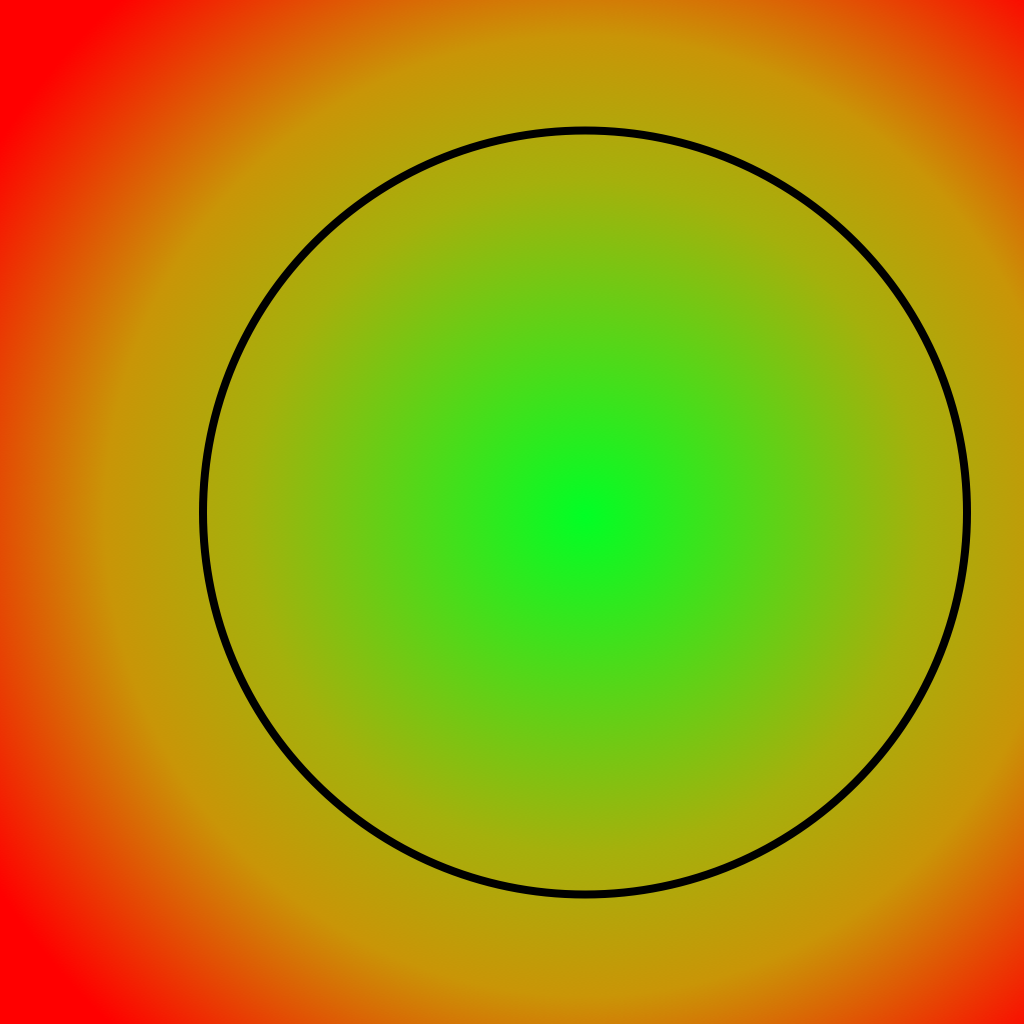
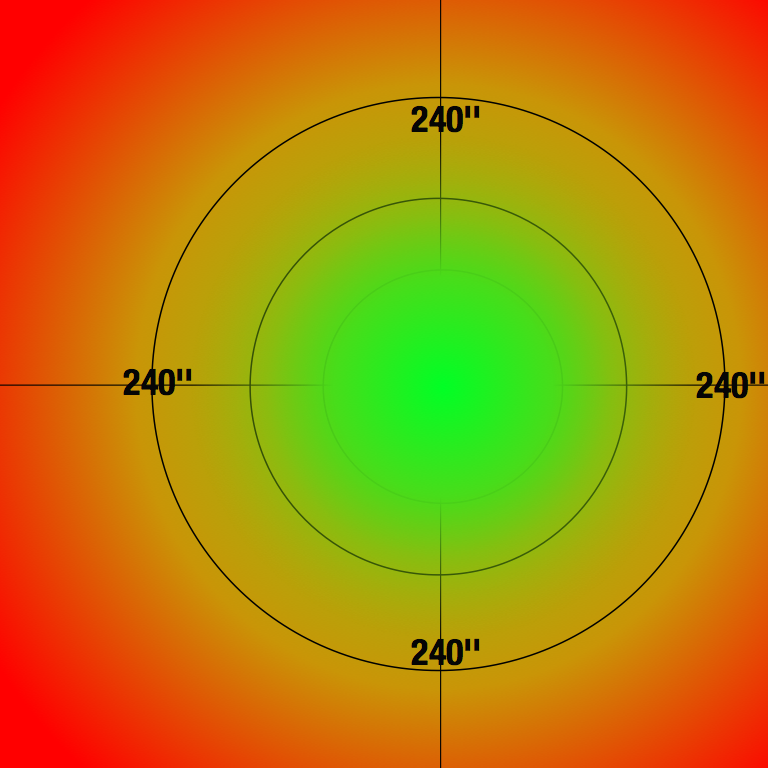
defining final state of heatmap

diff --git a/extensions/HeatExt.js b/extensions/HeatExt.js
@@ -15,49 +15,26 @@ class HeatExtension extends Autodesk.Viewing.Extension {
 
         this.customize = this.customize.bind(this);
         this.createShaderMaterial = this.createShaderMaterial.bind(this);
+        this.createShadeMaterialWithOffset = this.createShadeMaterialWithOffset.bind(this);
         this.getBounds = this.getBounds.bind(this);
         this.processSelection = this.processSelection.bind(this);
+        this.computeClickRelativeToFloorPosition = this.computeClickRelativeToFloorPosition.bind(this);
 
 
-        this.vertexShader = `
-              precision mediump float;
-  
-              attribute vec2 inPos;
-              varying vec2 vertPos;
-              
-              void main()
-              {
-                  vertPos = inPos;
-                  gl_Position = vec4( inPos.xy, 0.0, 1.0 );
-              }
-        ` ;
+        // constants put here for optimization only
+        this.floorID = 269;
+        this.floorFragmentID = 0;
+        this.bounds = {
+            height: 53.08399200439453,
+            width: 115.7926254272461
+        };
 
-        this.fragmentShader = `
-          precision mediump float;
- 
-          varying vec2 vertPos;
-          uniform vec2 resolution;
-          
-             void main() {
-                  vec2 pos_ndc = 2.0 * gl_FragCoord.xy / resolution.xy - 1.0;
-                  float dist = length(pos_ndc);
-                  
-                  vec4 white = vec4(1.0, 1.0, 1.0, 1.0);
-                  vec4 red = vec4(1.0, 0.0, 0.0, 1.0);
-                  vec4 blue = vec4(0.0, 0.0, 1.0, 1.0);
-                  vec4 green = vec4(0.0, 1.0, 0.0, 1.0);
-                  float step1 = 0.0;
-                  float step2 = 0.33;
-                  float step3 = 0.66;
-                  float step4 = 1.0;
-                
-                  vec4 color = mix(white, red, smoothstep(step1, step2, dist));
-                  color = mix(color, blue, smoothstep(step2, step3, dist));
-                  color = mix(color, green, smoothstep(step3, step4, dist));
-                
-                  gl_FragColor = color;
-        }
-        `;
+        this.textureCoords = {
+            maxWidth: 1.647,
+            maxHeight: 0.99,
+            minWidth: -0.49,
+            minHeight: 0.02
+        };
 
     }
 
@@ -87,30 +64,52 @@ class HeatExtension extends Autodesk.Viewing.Extension {
     }
 
     processSelection(event) {
-        let floorID = 269;
+
         let selection = this.viewer.getSelection();
 
-        if(selection.length !== 0 && selection[0] === 269) {
+        if(selection.length !== 0 && selection[0] === this.floorID) {
             this.viewer.select(); //clear selection
-            console.log(this.viewer.clientToWorld(event.clientX, event.clientY, true));
+            let intersectPoint = this.viewer.clientToWorld(event.clientX, event.clientY, true).intersectPoint;
+            let offset = this.computeClickRelativeToFloorPosition(intersectPoint, this.bounds, this.textureCoords);
+            console.log(offset);
+
+            this.myMaterial = this.createShadeMaterialWithOffset(offset.X,offset.Y,this.bounds);
+
+            viewer.model.getFragmentList().setMaterial(this.floorFragmentID, this.myMaterial);
+
+            viewer.impl.sceneUpdated(true);
+            viewer.impl.invalidate(true);
 
         }
-        else {
+    }
 
-        }
+    computeClickRelativeToFloorPosition(intersectionPoint, bounds, texCoord) {
+        let maxWidth = bounds.width/2*-1;
+        let minWidth = bounds.width/2;
+        let maxHeight = bounds.height/2;
+        let minHeight = bounds.height/2*-1;
+
+        let A = (texCoord.minWidth - texCoord.maxWidth)/(minWidth-maxWidth);
+        let B = texCoord.maxWidth - A*maxWidth;
+        let offSetX = A*intersectionPoint.x + B;
+
+        A = (texCoord.minHeight - texCoord.maxHeight)/(minHeight-maxHeight);
+        B = texCoord.maxHeight - A*maxHeight;
+        let offSetY = A*intersectionPoint.y + B;
+
+        return {X: offSetX, Y: offSetY}
     }
 
     customize() {
 
         //Start custom code here ...
         let viewer = this.viewer;
-        let floorFragmentID = 0;
 
 
 
         let floorBox = new THREE.Box3();
         this.viewer.model.getFragmentList()
-            .getWorldBounds(floorFragmentID, floorBox);
+            .getWorldBounds(this.floorFragmentID, floorBox);
 
         const width = Math.abs(floorBox.max.x - floorBox.min.x);
         const height = Math.abs(floorBox.max.y - floorBox.min.y);
@@ -120,13 +119,85 @@ class HeatExtension extends Autodesk.Viewing.Extension {
             width: width,
             height: height};
 
-        this.myMaterial = this.createShaderMaterial(bounds);
+        console.log(bounds);
 
-        viewer.model.getFragmentList().setMaterial(floorFragmentID, this.myMaterial);
+        // this.myMaterial = this.createShaderMaterial(bounds);
+        this.myMaterial = this.createShadeMaterialWithOffset(0.5,0.5,bounds);
+
+        viewer.model.getFragmentList().setMaterial(this.floorFragmentID, this.myMaterial);
 
         viewer.impl.sceneUpdated(true);
         viewer.impl.invalidate(true);
 
+    }
+
+    createShadeMaterialWithOffset(offsetX, offsetY, bounds) {
+        const uniforms = {
+            height: {
+                type: 'f',
+                value: bounds.height
+            },
+            offsetx: {
+                type: 'f',
+                value: offsetX
+            },
+            offsety: {
+                type: 'f',
+                value: offsetY
+            },
+            texture1: {
+                type: "t",
+                value: THREE.ImageUtils.loadTexture( "../img/radial.png" )
+            }
+        };
+
+        const myVertexShader =  `
+        varying vec2 vUv;
+        uniform float height;
+        uniform float offsetx;
+        uniform float offsety;
+        
+        void main() {
+             
+            vec3 projection = vec3(position.x, position.y, 0.);
+        
+            vUv = vec2((projection.x) / height + offsetx,
+                (height + projection.y) / height - offsety);
+
+            vec4 mvPosition = modelViewMatrix * vec4( position, 1.0 );
+                    gl_Position = projectionMatrix * mvPosition;
+        }
+        ` ;
+
+        const myFragmentShader = `
+        uniform sampler2D texture1;
+        varying vec2 vUv;
+        
+             void main() {
+             // gl_FragColor = vec4(0,0,1, 1);
+             gl_FragColor = texture2D(texture1, vUv);
+        }
+        `;
+
+        const material = new THREE.ShaderMaterial({
+            uniforms: uniforms,
+            vertexShader: myVertexShader,
+            fragmentShader: myFragmentShader,
+            side: THREE.DoubleSide,
+        });
+
+        const materials = this.viewer.impl.matman();
+
+        materials.removeMaterial("MyTextureShaderMaterial");
+
+        materials.addMaterial(
+            "MyTextureShaderMaterial",
+            material,
+            true);
+
+        viewer.impl.invalidate(true);
+
+        return material;
     }
 
 
@@ -140,12 +211,12 @@ class HeatExtension extends Autodesk.Viewing.Extension {
         void main() {
             // vUv = uv;
             
-            float OFFSET_X = 0.0;//0.5;
-            float OFFSET_Y = 0.0;//0.5;
+            float OFFSET_X = 0.5;//0.5;
+            float OFFSET_Y = 0.5;//0.5;
              
             vec3 projection = vec3(position.x, position.y, 0.);
         
-            vUv = vec2((projection.x) / width + OFFSET_X,
+            vUv = vec2((projection.x) / height + OFFSET_X,
                 (height + projection.y) / height - OFFSET_Y);
 
             vec4 mvPosition = modelViewMatrix * vec4( position, 1.0 );
@@ -187,6 +258,8 @@ class HeatExtension extends Autodesk.Viewing.Extension {
         });
 
         const materials = this.viewer.impl.matman();
+
+        materials.removeMaterial("MyTextureShaderMaterial");
 
         materials.addMaterial(
             "MyTextureShaderMaterial",
